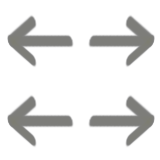
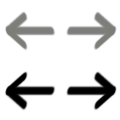
Updated front page arrow and darkened greys

Changed region(s): [[0.025, 0.6, 0.475, 0.925], [0.55, 0.6, 0.975, 0.925]]

diff --git a/docroot/sites/all/themes/dressitalian/css/page.css b/docroot/sites/all/themes/dressitalian/css/page.css
@@ -460,12 +460,12 @@ span.button {
 /* backgrounds */
 div.container {
 	background: rgb(255,255,255); /* Old browsers */
-	background: -moz-linear-gradient(left, rgba(255,255,255,1) 0%, rgba(226,226,226,1) 3%, rgba(255,255,255,1) 3%, rgba(255,255,255,1) 97%, rgba(226,226,226,1) 97%, rgba(255,255,255,1) 100%); /* FF3.6+ */
-	background: -webkit-gradient(linear, left top, right top, color-stop(0%, rgba(255,255,255,1)), color-stop(3%, rgba(226,226,226,1)), color-stop(3%, rgba(255,255,255,1)), color-stop(97%, rgba(255,255,255,1)), color-stop(97%, rgba(226,226,226,1)), color-stop(100%, rgba(255,255,255,1))); /* Chrome,Safari4+ */
-	background: -webkit-linear-gradient(left, rgba(255,255,255,1) 0%, rgba(226,226,226,1) 3%, rgba(255,255,255,1) 3%, rgba(255,255,255,1) 97%, rgba(226,226,226,1) 97%, rgba(255,255,255,1) 100%); /* Chrome10+,Safari5.1+ */
-	background: -o-linear-gradient(left, rgba(255,255,255,1) 0%, rgba(226,226,226,1) 3%, rgba(255,255,255,1) 3%, rgba(255,255,255,1) 97%, rgba(226,226,226,1) 97%, rgba(255,255,255,1) 100%); /* Opera11.10+ */
-	background: -ms-linear-gradient(left, rgba(255,255,255,1) 0%, rgba(226,226,226,1) 3%, rgba(255,255,255,1) 3%, rgba(255,255,255,1) 97%, rgba(226,226,226,1) 97%, rgba(255,255,255,1) 100%); /* IE10+ */
-	background: linear-gradient(left, rgba(255,255,255,1) 0%, rgba(226,226,226,1) 3%, rgba(255,255,255,1) 3%, rgba(255,255,255,1) 97%, rgba(226,226,226,1) 97%, rgba(255,255,255,1) 100%); /* W3C */
+	background: -moz-linear-gradient(left, rgba(255,255,255,1) 0%, rgba(200,200,200,1) 3%, rgba(255,255,255,1) 3%, rgba(255,255,255,1) 97%, rgba(200,200,200,1) 97%, rgba(255,255,255,1) 100%); /* FF3.6+ */
+	background: -webkit-gradient(linear, left top, right top, color-stop(0%, rgba(255,255,255,1)), color-stop(3%, rgba(200,200,200,1)), color-stop(3%, rgba(255,255,255,1)), color-stop(97%, rgba(255,255,255,1)), color-stop(97%, rgba(200,200,200,1)), color-stop(100%, rgba(255,255,255,1))); /* Chrome,Safari4+ */
+	background: -webkit-linear-gradient(left, rgba(255,255,255,1) 0%, rgba(200,200,200,1) 3%, rgba(255,255,255,1) 3%, rgba(255,255,255,1) 97%, rgba(200,200,200,1) 97%, rgba(255,255,255,1) 100%); /* Chrome10+,Safari5.1+ */
+	background: -o-linear-gradient(left, rgba(255,255,255,1) 0%, rgba(200,200,200,1) 3%, rgba(255,255,255,1) 3%, rgba(255,255,255,1) 97%, rgba(200,200,200,1) 97%, rgba(255,255,255,1) 100%); /* Opera11.10+ */
+	background: -ms-linear-gradient(left, rgba(255,255,255,1) 0%, rgba(200,200,200,1) 3%, rgba(255,255,255,1) 3%, rgba(255,255,255,1) 97%, rgba(200,200,200,1) 97%, rgba(255,255,255,1) 100%); /* IE10+ */
+	background: linear-gradient(left, rgba(255,255,255,1) 0%, rgba(200,200,200,1) 3%, rgba(255,255,255,1) 3%, rgba(255,255,255,1) 97%, rgba(200,200,200,1) 97%, rgba(255,255,255,1) 100%); /* W3C */
 	padding: 20px 50px;
 	top: -6px;
 }
@@ -607,31 +607,30 @@ a:hover.boxout {
 
 /* Front page slideshow */
 
-
 .view-frontpage .views_slideshow_singleframe_previous, .view-frontpage .views_slideshow_singleframe_next {
 	background-image:url(../images/arrow.png);
 	display: block;
 	overflow: hidden;
-	width: 80px;
-	height: 80px;
+	width: 60px;
+	height: 60px;
 	text-indent: -10000px;
 	position: absolute;
 	z-index: 1000;
-	top: 420px;
+	top: 528px;
 }
 .view-frontpage a.views_slideshow_singleframe_previous {
 	background-position: 0 0;
 	left: 40px;
 }
 .view-frontpage a:hover.views_slideshow_singleframe_previous {
-	background-position: 0 80px;
+	background-position: 0 60px;
 }
 .view-frontpage a.views_slideshow_singleframe_next {
-	background-position: 80px 0;
+	background-position: 60px 0;
 	right: 54px;
 }
 .view-frontpage a:hover.views_slideshow_singleframe_next {
-	background-position: 80px 80px;
+	background-position: 60px 60px;
 }
 .view-frontpage .views_slideshow_singleframe_pause {
 	position: absolute !important;

diff --git a/docroot/sites/all/themes/dressitalian/css/html-elements.css b/docroot/sites/all/themes/dressitalian/css/html-elements.css
@@ -5,7 +5,7 @@ html {
   font-size:90%; /* 16px x 75% = 12px */
 }
 body {
-  color: #4C4C4C;
+  color: #2C2C2C;
   font-family:'CantarellRegular',Verdana,Geneva,"DejaVu Sans",sans-serif;
   line-height:1.5;
 }

diff --git a/docroot/sites/all/themes/dressitalian/css/recipe.css b/docroot/sites/all/themes/dressitalian/css/recipe.css
@@ -292,7 +292,7 @@
 /* Recipe category page - GREY */
 
 .grey {
-	background-color: #1C1C1C;
+	background-color: #2C2C2C;
 }
 .page-type-recipe .grey .nd-region-header {
 	background-color: white;
